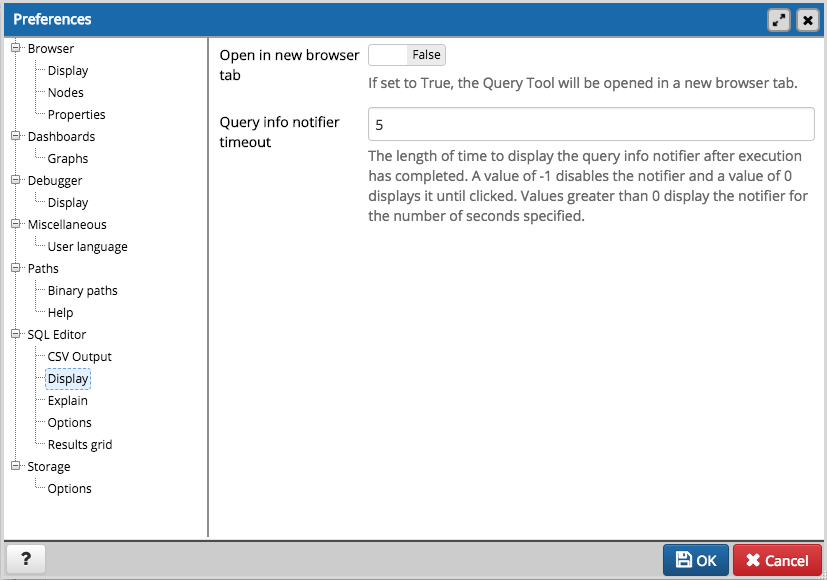
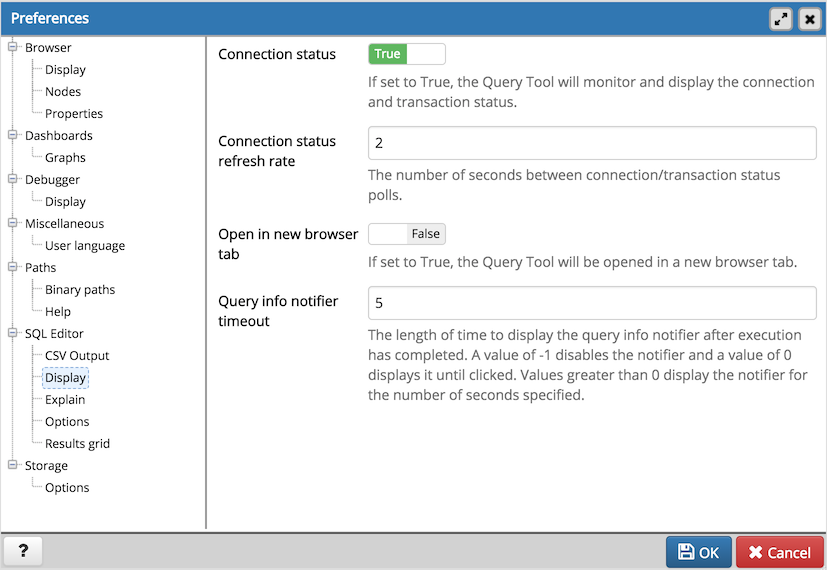
Doc updates for connection status monitoring.

Changed region(s): [[0.0, 0.0, 1.0, 1.0], [0.4534, 0.5667, 0.9674, 0.7158], [0.4232, 0.4474, 0.9674, 0.4772]]

diff --git a/docs/en_US/query_tool.rst b/docs/en_US/query_tool.rst
@@ -8,6 +8,7 @@ The Query tool is a powerful, feature-rich environment that allows you to execut
 
 * Issue ad-hoc SQL queries.
 * Execute arbitrary SQL commands.
+* Displays current connection and transaction status as configured by the user.
 * Save the data displayed in the output panel to a CSV file.
 * Review the execution plan of a SQL statement in either a text or a graphical format.
 * View analytical information about a SQL statement.
@@ -206,3 +207,8 @@ The Query History tab displays information about recent commands:
 * Messages returned by the server (not noted on the *Messages* tab).
 
 To erase the content of the *Query History* tab, select *Clear history* from the *Clear* drop-down menu.
+
+Use the *Connection status* feature to view the current connection and transaction status by clicking on the status icon in query tool:
+
+.. image:: images/query_tool_connection_status.png
+    :alt: Query tool connection and transaction statuses

diff --git a/docs/en_US/preferences.rst b/docs/en_US/preferences.rst
@@ -115,6 +115,10 @@ Use the fields on the *CSV Output* panel to control the CSV output.
 
 Use the fields on the *Display* panel to specify your preferences for the SQL Editor display.
 
+* When the *Connection status* switch is set to *True*, each new instance of the SQL Editor will display connection and transaction status.
+
+* Use the *Connection status refresh rate* field to specify the number of seconds between connection/transaction status updates.
+
 * When the *Open in new browser tab* switch is set to *True*, each new instance of the SQL Editor will open in a new browser tab.
 
 * Use the *Query info notifier timeout* field to control the behaviour of the notifier that is displayed when query execution completes. A value of *-1* will disable the notifier, and a value of 0 will display it until clicked. If a positive value above zero is specified, the notifier will be displayed for the specified number of seconds. The default is *5*.
